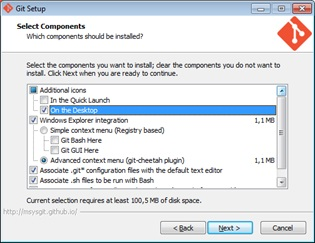
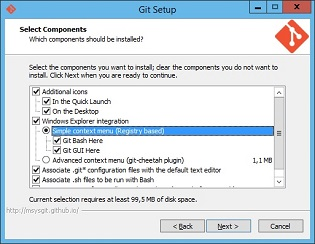
Change msysgit3.jpg picture (SImple Windows Contet menu integration)

diff --git a/msysgit.md b/msysgit.md
@@ -15,7 +15,7 @@
   
 
 ![Advanced Context Menu.](/gtnn/msysgit3.jpg)  
-Рисунок 3. Обязательно отметить Advanced Context Menu.  
+Рисунок 3. Выбираем интеграцию ярлыков Git-Bash и Git-GUI как простое контекстное меню Windows (используется реестр Windows).  
   
 
 ![PATH Envoronment.](/gtnn/msysgit4.jpg)  
